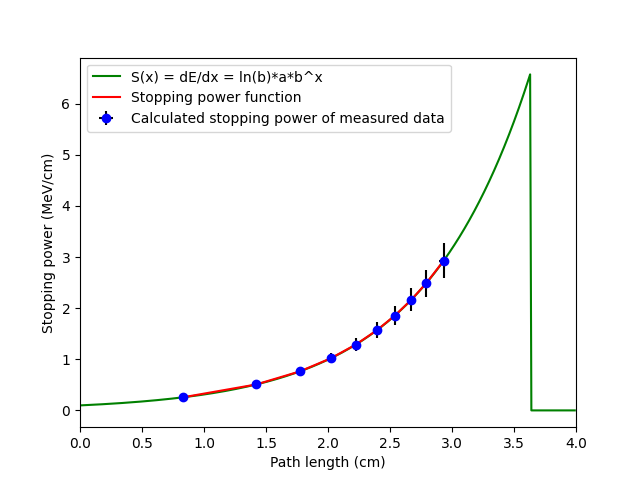
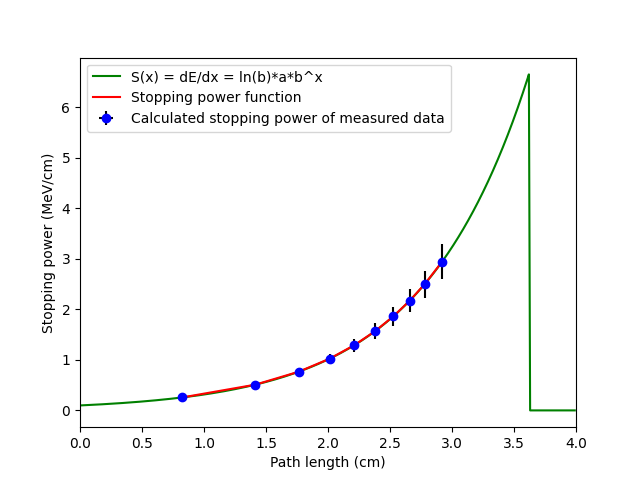
changed the standardpressure to 1 atm = 1.01325 bar

diff --git a/src/alpha/alpha_ray.py b/src/alpha/alpha_ray.py
@@ -31,7 +31,7 @@ class Measurement:
     energy_alpha_init = 5.48 # Mev
 
     standard_length = 3 # physical distance to the detector in cm 
-    standard_pressure = 1 # in bar
+    standard_pressure = 1.01325 # = 1 atm in bar
 
     energy_list = []
     energy_error_list = []
@@ -208,7 +208,7 @@ class Measurement:
         energy_weight = [1/energy_err for energy_err in cls.energy_error_list]
         cls.model_energy = models.Model(cls.exp_decay, nan_policy='propagate')
         cls.result_energy = cls.model_energy.fit(cls.energy_list, x=cls.path_length_list, weights=energy_weight, a=0.1, b=5, c=2)
-        print(cls.result_energy.fit_report())
+        # print(cls.result_energy.fit_report())
         cls.a = cls.result_energy.params['a'].value
         cls.b = cls.result_energy.params['b'].value
         cls.c = cls.result_energy.params['c'].value
